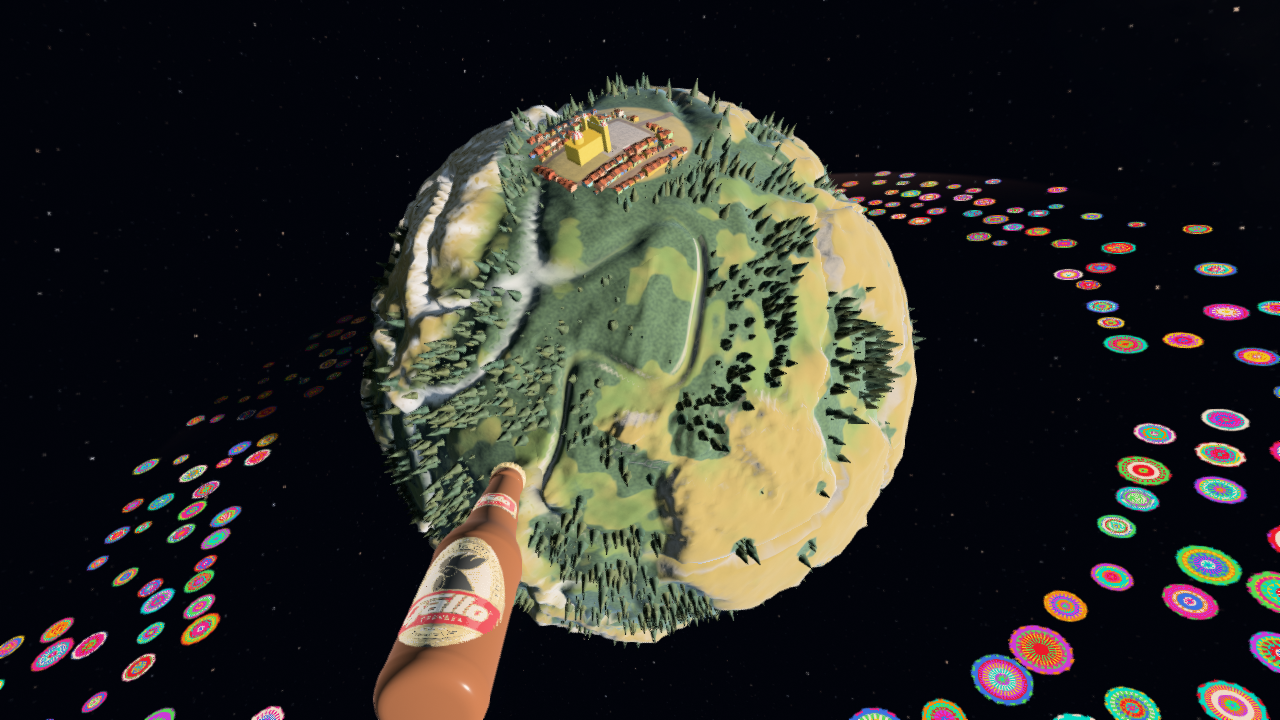
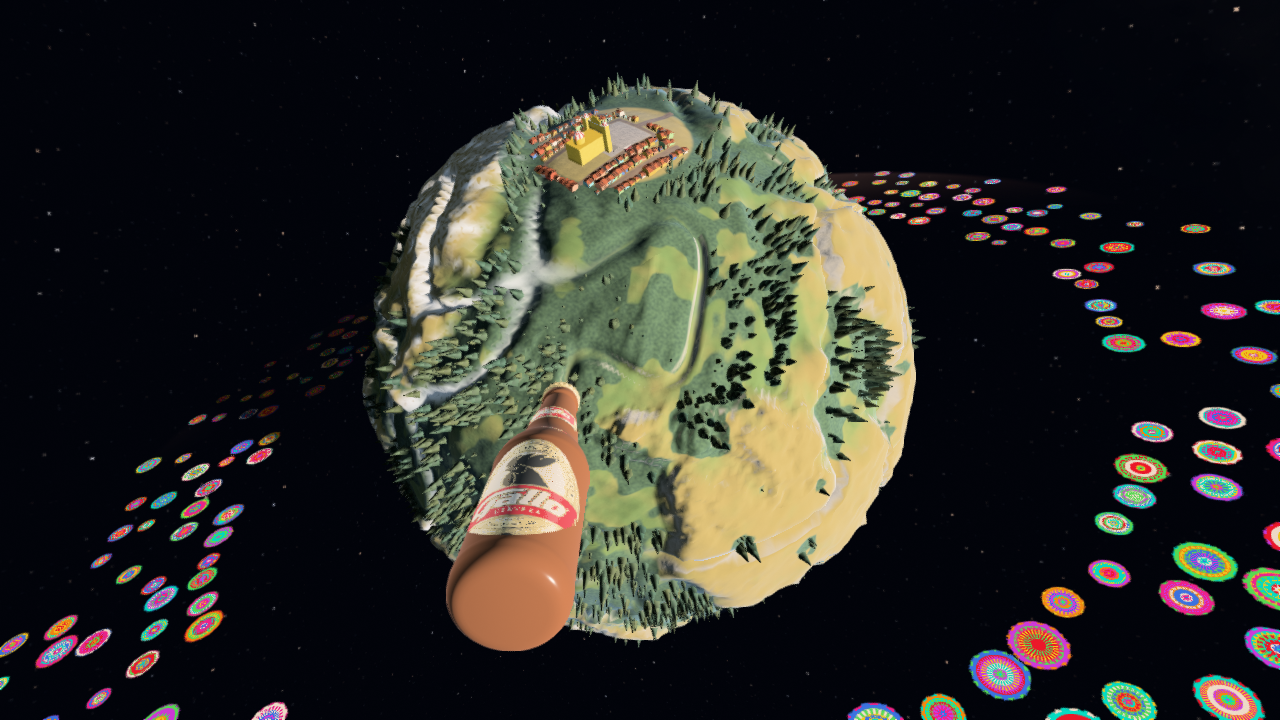
Hacer mas grandes las naves botella y llevar la camara mas atras y mas baja para que se vean enteras

diff --git a/src/config.rs b/src/config.rs
@@ -69,6 +69,9 @@ pub const REWIND_SPEED: f64 = 8.0;
 
 /// Largo de la nave en unidades del mundo (el modelo se escala a esto).
 pub const SHIP_LENGTH: f64 = 4.0;
+/// Largo de las naves botella: mas grandes que la OCASO-1 para que se lea
+/// la etiqueta.
+pub const BOTTLE_LENGTH: f64 = SHIP_LENGTH * 1.6;
 /// La velocidad maxima crece con la altitud: lejos se cruza el sistema en
 /// segundos y junto a la superficie se vuela con precision. Como la nave
 /// tambien frena con la altitud, nunca llega al suelo a toda velocidad.
@@ -108,6 +111,10 @@ pub const CRUISE_THRUST: f64 = 0.6;
 
 pub const CHASE_HEIGHT: f64 = 2.8;
 pub const CHASE_DISTANCE: f64 = 8.8;
+/// La camara de persecucion con las botellas (a la derecha, arriba y
+/// atras): mas atras y mas baja que con la OCASO-1, asi la botella queda
+/// mas adelante en la imagen y entera, sin cortarse abajo.
+pub const BOTTLE_CHASE: [f64; 3] = [1.7, 2.0, 11.2];
 /// Posicion de la cabina respecto al centro de la nave.
 pub const COCKPIT_OFFSET: [f64; 3] = [0.0, 0.5, -0.6];
 /// Distancia minima entre la camara y la superficie de un cuerpo.

diff --git a/src/app.rs b/src/app.rs
@@ -2047,7 +2047,7 @@ impl App {
                 ship_pos,
                 ship_rot * self.system.ship_fix,
                 self.throttle,
-                config::SHIP_LENGTH,
+                if self.system.version == Version::Chapin { config::BOTTLE_LENGTH } else { config::SHIP_LENGTH },
                 t,
                 camera.pos,
                 self.exhaust_style(),
@@ -2083,7 +2083,12 @@ impl App {
         let rot = (self.aim * look).normalize();
         let mut pos = match self.camera_mode {
             CameraMode::Chase => {
-                let offset = DVec3::new(2.2, config::CHASE_HEIGHT, config::CHASE_DISTANCE);
+                let offset = if self.system.version == Version::Chapin {
+                    let [x, y, z] = config::BOTTLE_CHASE;
+                    DVec3::new(x, y, z)
+                } else {
+                    DVec3::new(2.2, config::CHASE_HEIGHT, config::CHASE_DISTANCE)
+                };
                 ship_pos + rot.rotate(offset * self.zoom)
             }
             CameraMode::Cockpit => {

diff --git a/src/scene/system.rs b/src/scene/system.rs
@@ -370,7 +370,7 @@ impl System {
         for &(name, file, exhaust) in &BOTTLES {
             let mut mesh = load_obj(&assets.join("botellas").join(format!("{file}-low.obj")))?;
             mesh.deform(|p| Vec3::new(-p.x, p.y, -p.z));
-            mesh.normalize_size(config::SHIP_LENGTH as f32 * 1.15);
+            mesh.normalize_size(config::BOTTLE_LENGTH as f32);
             bottles.push(Bottle {
                 name,
                 mesh: meshes.len(),

diff --git a/EXPLICACION.md b/EXPLICACION.md
@@ -39,7 +39,10 @@
 - **Las naves botella**: OBJ de Blender (Z arriba, etiqueta hacia +Y)
   girados al cargar para volar con el pico adelante, y dibujados con la boca
   22 grados hacia arriba (`System::ship_fix`): la cámara va atrás y arriba,
-  y así ve la etiqueta y no solo el fondo. Su shader usa el color de cada
+  y así ve la etiqueta y no solo el fondo. Miden 1.6 veces la OCASO-1
+  (`config::BOTTLE_LENGTH`) y con ellas la cámara de persecución va más
+  atrás y más baja (`config::BOTTLE_CHASE`): la botella queda entera a media
+  imagen en vez de cortarse abajo. Su shader usa el color de cada
   cara (`Kd`) con vidrio pulido, un borde de Fresnel y la luz que pasa por
   el vidrio a contraluz. Cada una tiene su escape (`effects::Exhaust`), que
   sale del fondo de la botella inclinada.
